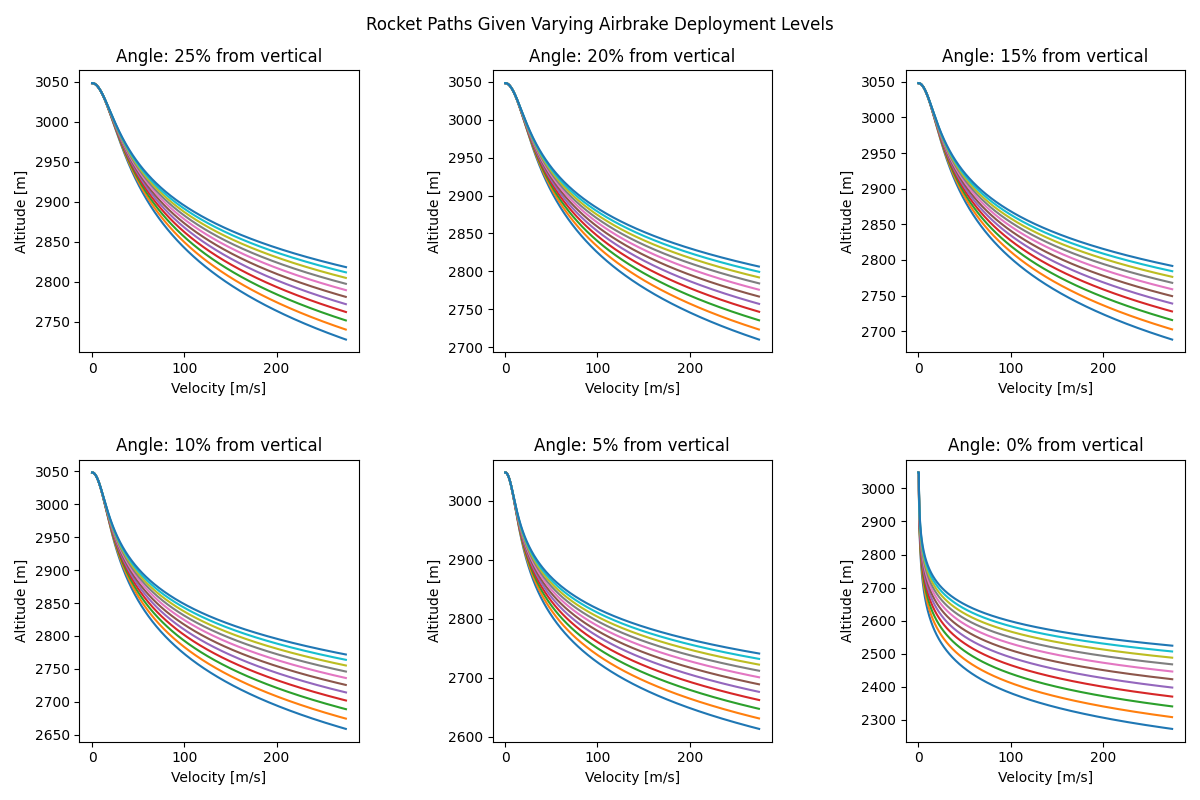
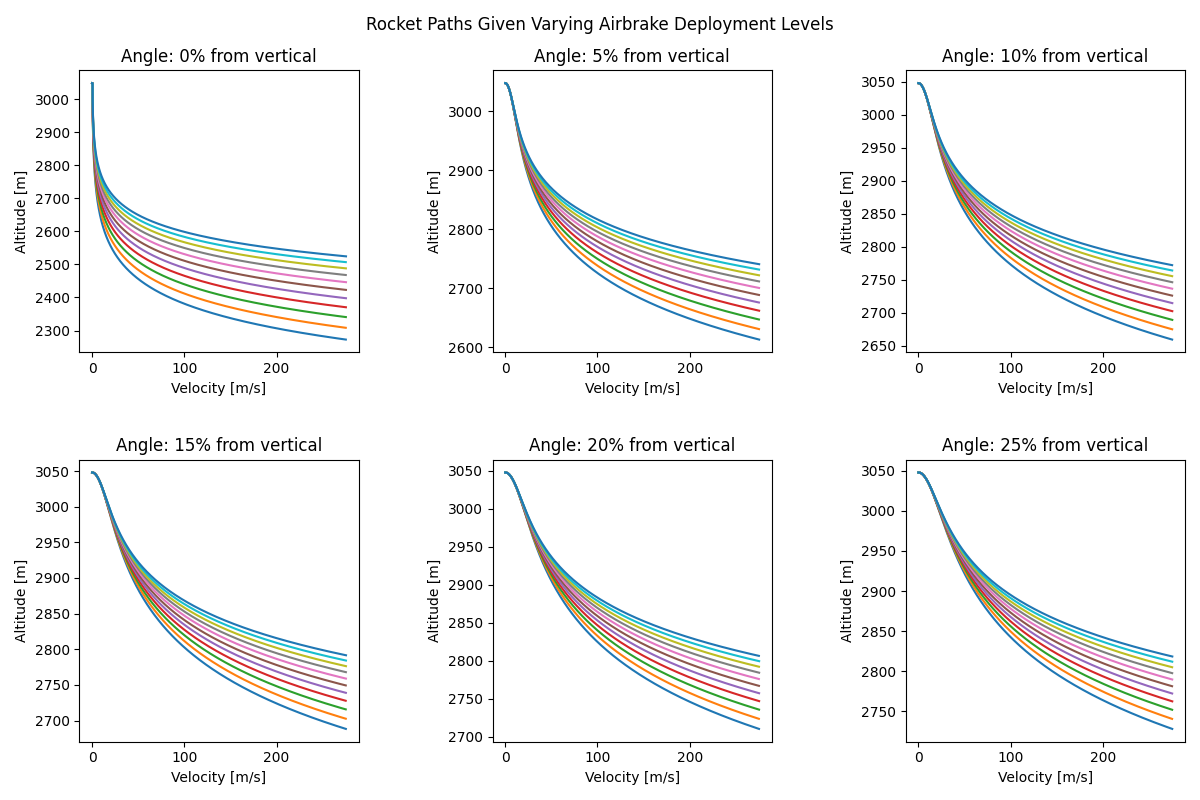
Updated README

diff --git a/BackwardsSimulation.py b/BackwardsSimulation.py
@@ -29,7 +29,7 @@ lines = []
 plt.suptitle(f"Rocket Paths Given Varying Airbrake Deployment Levels")
 
 for i in range (6):
-    angle = 65 + i*5
+    angle = 90 - i*5
     for j in range (11):
         altitude = targetAltitude #Changing altitude
         velocity = [initialSpeed*Math.cos(Math.radians(angle)), initialSpeed*Math.sin(Math.radians(angle))] #Set initial velocity

diff --git a/README.md b/README.md
@@ -1,6 +1,6 @@
 # BackwardsAirbrakeSimulation
 Makes use of a backwards physics engine to determine which deployment level would be ideal for a rocket's airbrake.
 
-Code currently uses finals2000A.all from https://datacenter.iers.org/products/eop/rapid/standard/ in order to get ISA Standard air density from different altitudes, however, I would like to find a better way.
+Simulation is now 2-dimensional!!!
 
-Next big step is to make the physics 2-dimensional.
+Latest Result is saved to SimResults.png
